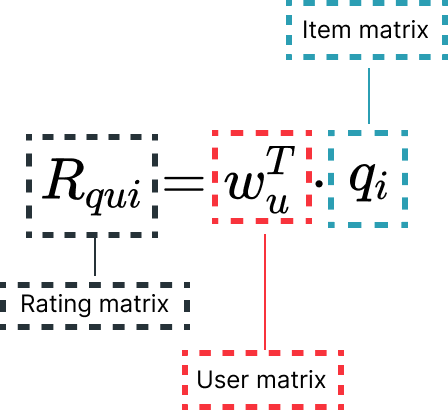
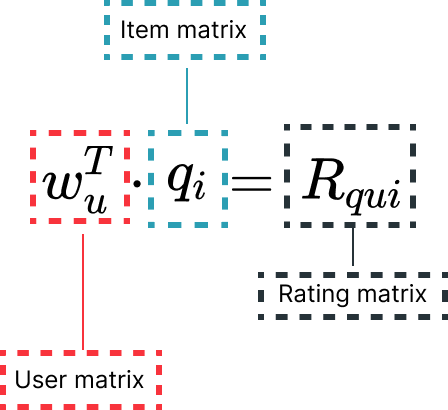
fix teext based on reviews

diff --git a/index.html b/index.html
@@ -68,7 +68,7 @@
                     Gabriela Morgenshtern
                 </p>
                 <p class="affiliation">
-                    University of Zurich
+                    University of Zurich, Digital Society Initiative Zürich
                 </p>
                 <p class="author">
                     Yves Rutishauser
@@ -114,8 +114,8 @@
         <p></p>
         <p>If you have ever used an e-commerce service or a streaming platform, you have already seen at least
             one of these: <q><i>recommended for you</i></q>, or <q><i>other users have also bought this</i></q>. In
-            this article, we will give you an introduction to Recommender Systems (RS), and illustrate how new
-            deep-learning algorithmic techniques in this field work.
+            this <u>educational article</u>, we will give you an introduction to Recommender Systems (RS), and
+            illustrate how new deep-learning algorithmic techniques in this field work.
         </p>
 
         <p>
@@ -148,9 +148,7 @@
                 <span class="citation-number">[1]</span>
             </div>
         </d-cite> -->
-
         </p>
-
 
         <h2>Recommender systems: what are they?</h2>
 
@@ -346,23 +344,29 @@
 
         <div>
             <h2>
-                Matrix Factorization: Interpretable collaborative filtering
+                Matrix Factorization: <q>Interpretable</q> collaborative filtering
             </h2>
 
             <p></p>
 
             <p>
                 Matrix Factorization (MF) is a class of collaborative filtering techniques [3]. In
-                its most simplistic form, Matrix Factorization characterizes both the items and the users by a vector of
+                its most simplistic form, MF characterizes both the items and the users by a vector of
                 factors (<i>matrices</i>), which then generate latent features (<i><q>embeddings</q></i>)
                 when they are multiplied together (<i><q>into the matrix dot product</q></i>).
             </p>
             <p>
-                This method has become popular because it offers flexibility for modeling real-life scenarios
-                while maintaining robust scalability and predictive accuracy [2]. Moreover,
-                since it is based on pure math, it can be classified as an <i>interpretable</i> recommendation method!
+                This method has become popular because it offers flexibility for modeling real-life scenarios while
+                maintaining robust scalability and predictive accuracy [2]. If we consider the toy example below, it is
+                possible to understand how the predictions are made since both the number of features of the user and
+                the item ones are few. Once this method is scaled up to more features, as it happens in real-world
+                scenarios, the ability to interpret the prediction is lost [cite]. For this reason, there is a specific
+                research field called <q>explainability on latent factor models</q>. To learn more about it see the
+                following references [cite].
+                <!-- Moreover, since it is based on pure math, it can be classified as an <i>interpretable</i> recommendation
+                method!
                 With MF, we are able to track exactly how our input data is transformed by the model
-                when making a recommendation.
+                when making a recommendation. -->
             </p>
             <div class="example">
                 <p class="example_text">
@@ -371,24 +375,17 @@
                 </p>
 
                 <div class="row">
-                    <div class="column-rmatrix-text">
-                        <figcaption>Rating matrix</figcaption>
-                    </div>
                     <div class="column-umatrix-text">
                         <figcaption>User matrix</figcaption>
                     </div>
                     <div class="column-imatrix-text">
                         <figcaption>Item matrix</figcaption>
                     </div>
+                    <div class="column-rmatrix-text">
+                        <figcaption>Rating matrix</figcaption>
+                    </div>
                 </div>
                 <div class="row">
-                    <div class="column">
-                        <div id="parent5">
-                            <img src="rating-matrix.png" width="300px">
-                            <div id="popup5" style="display: None">The <b>rating matrix</b> stores the dot product of
-                                the user and item matrices.</div>
-                        </div>
-                    </div>
                     <div class="column-umatrix">
                         <div id="parent6">
                             <img src="user-matrix.png" width="150px">
@@ -399,10 +396,17 @@
                     </div>
                     <div class="column-imatrix">
                         <div id="parent7">
-                            <img src="item-matrix.png" width="150px">
+                            <img src="item-matrix.png" width="220px">
                             <div id="popup7" style="display: None">The <b>item matrix</b> stores the items' feature
                                 scores. Here, each of the 4 items contains 2 features.
                             </div>
+                        </div>
+                    </div>
+                    <div class="column-rmatrix">
+                        <div id="parent5">
+                            <img src="rating-matrix.png" width="210px">
+                            <div id="popup5" style="display: None">The <b>rating matrix</b> stores the dot product of
+                                the user and item matrices.</div>
                         </div>
                     </div>
                 </div>
@@ -587,8 +591,10 @@
                 can be done through approaches like gradient descent [16].
             </p>
             <p>
-                We will use the <i><q>EmbeddingMF</q></i> approach, which includes a bias term on top of our existing
-                dot product.
+                We will use the <i><q>EmbeddingMF</q></i> approach, which includes a general bias term on top of our
+                existing dot product. EmbeddingMF is a clear simplification of the FunkSVD method [cite] where at least
+                three different bias terms (general, user, item) are added on top of the matrix factorization
+                approach.
             </p>
             <div class="row">
                 <img src="ebeddingMF-figure.png" width="600px">
@@ -658,24 +664,21 @@
                 DeepFM accepts a shared input of raw features to both of its components, the FM and neural network,
                 without any feature engineering.
                 We choose DeepFM for our next recommendation system progression as machine factorization is a
-                mathematical approach combining
-                matrix factorization with regression. Considering our matrix factorization starting point, DeepFM can be
-                seen as an upgrade to both the
-                two models we explored above.
+                mathematical approach combining matrix factorization with regression. Considering our matrix
+                factorization starting point, DeepFM can be seen as an upgrade to both the two models we explored above.
             </p>
 
             <!-- <h3>DeepFM</h3> -->
             <p>
                 Architecturally, DeepFM consists of two components that share the same input: a Factorization Machine
-                (FM),
-                and a deep component.
+                (FM), and a deep component.
             </p>
             <p>
                 <b>Factorization Machines (FM)</b>: A model class combining the advantages of Support Vector
-                Machines with factorization models [7]. Factorization Machines are a general predictor,
-                modeling all interactions between variables using factorized parameters. FMs are a powerful strategy
-                to use when designing recommender systems, as they are able to estimate interactions even in
-                highly sparse data contexts.
+                Machines with factorization models [7]. FM are a general predictor, modeling all interactions between
+                variables using factorized parameters. FMs are a powerful strategy
+                to use when designing recommender systems, as they are able to estimate interactions even in highly
+                sparse data contexts.
             </p>
 
             <p>
@@ -758,14 +761,15 @@
             <p></p>
             <p>
                 To better understand these results, we validate our models using the Root Mean Squared
-                Error (RMSE), the standard metric for validation in the recommender systems research. RMSE is typically
-                used when
-                we want to evaluate a predicted score, such as the predictive rating of a movie, and compare it
-                to a ground truth (true rating). Compared to other metrics, RMSE penalizes more harshly a larger
-                absolute
-                error, giving you a measure of how concentrated your data is around the curve you have fit through your
-                model.
-                Lower RMSE translates to better recommendation accuracy [1, 8].
+                Error (RMSE), a standard metric widley used for validation in the recommender systems research. We
+                decides to use RMSE over other evalutation metrics, like MAP or nDCG, for its understand semplicity.
+                <!-- and for better allignement to our goal of comparing the predicted rating of specific items over comparing a list  -->
+                Moreover, RMSE is typically used when we want to evaluate a predicted score, such as the predictive
+                rating of a
+                movie, and compare it to a ground truth (true rating) as we want to do in our case. Compared to other
+                metrics, RMSE penalizes more
+                harshly a larger absolute error, giving you a measure of how concentrated your data is around the curve
+                you have fit through your model. Lower RMSE translates to better recommendation accuracy [1, 8].
             </p>
             <div class="row">
                 <div class="column">
@@ -794,8 +798,8 @@
                 <div id="tester" style="width:750px;height:700px;"></div>
             </div>
             <figcaption class="centered">
-                RMSE of EmbeddingMF and DeepFM, both featuring large RMSE values at the two extremes of true ratings (x
-                axis)
+                RMSE of EmbeddingMF (yellow) and DeepFM (grey), both featuring large RMSE values at the two extremes of
+                true ratings (x axis)
             </figcaption>
             <p></p>
             <p>
@@ -823,15 +827,18 @@
             <p></p>
             <div class="example">
                 <p class="example_text">
-                    <i><b>This box is interactive!</b> The movies are represented by dots in the different sets and intersections of the
+                    <i><b>This box is interactive!</b> The movies are represented by dots in the different sets and
+                        intersections of the
                         Venn Diagram. The line that starts from the center of the circle represents the error (RMSE)
-                        that the model made in generating the rating prediction. Hover over one a point to discover the movie's name, its
+                        that the model made in generating the rating prediction. Hover over one a point to discover the
+                        movie's name, its
                         true rating, and its predicted scores from the model(s)</i>
                 </p>
                 <p class="example_text">
                     Let's consider Xiao. He is a young writer, between 25-34 years old, living in the West
                     Coast (USA). We want to better understand his preferences and what the two recommenders should, and
-                    have, recommended to him. To this end, we have retrieved the top 10 movies from both the recommendation
+                    have, recommended to him. To this end, we have retrieved the top 10 movies from both the
+                    recommendation
                     models, and a set of movies that Xiao himself has ranked 5. We examine the intersections of these
                     sets by visualizing them in a Venn diagram, as described in our annotated legend above.
                 </p>
@@ -886,7 +893,7 @@
             </p>
             <div id="ratings1" style="width:750px;height:350px;"></div>
             <figcaption class="centered">
-                Dashed lines in <b>brown (DeepFM)</b> and <b>yellow (EmbeddingMF)</b> reflect the prediction of each
+                Dashed lines in <b>grey (DeepFM)</b> and <b>yellow (EmbeddingMF)</b> reflect the prediction of each
                 model for <b>Xiao (User 1680)</b>
             </figcaption>
 
@@ -904,7 +911,8 @@
             </p>
             <p>
                 Maybe some characterists of Xiao's were overlooked, making him an outlier in these rating sets? Let us
-                see the user trends (for users' occupation, we exclude from consideration the MovieLens category 0: undefined):
+                see the user trends (for users' occupation, we exclude from consideration the MovieLens category 0:
+                undefined):
 
             <h4><i>Buffy the Vampire Slayer</i></h4>
             <ul>

diff --git a/style.css b/style.css
@@ -208,28 +208,33 @@ img {
 .column-umatrix {
     flex: 50%;
     margin-top: 23px;
+    margin-left: 30px;
 }
 
 .column-rmatrix-text {
     flex: 50%;
-    margin-left: 110px;
+    margin-left: 130px;
 }
-
 
 .column-umatrix-text {
     flex: 50%;
-    margin-left: 80px;
+    margin-left: 60px;
 }
 
 .column-imatrix {
     flex: 50%;
     margin-top: 50px;
+    margin-left: -10px;
+}
+
+.column-rmatrix {
+    flex: 50%;
     margin-right: 20px;
 }
 
 .column-imatrix-text {
     flex: 50%;
-    margin-left: 60px;
+    margin-left: 40px;
 }
 
 .column-rs-rmatrix {
